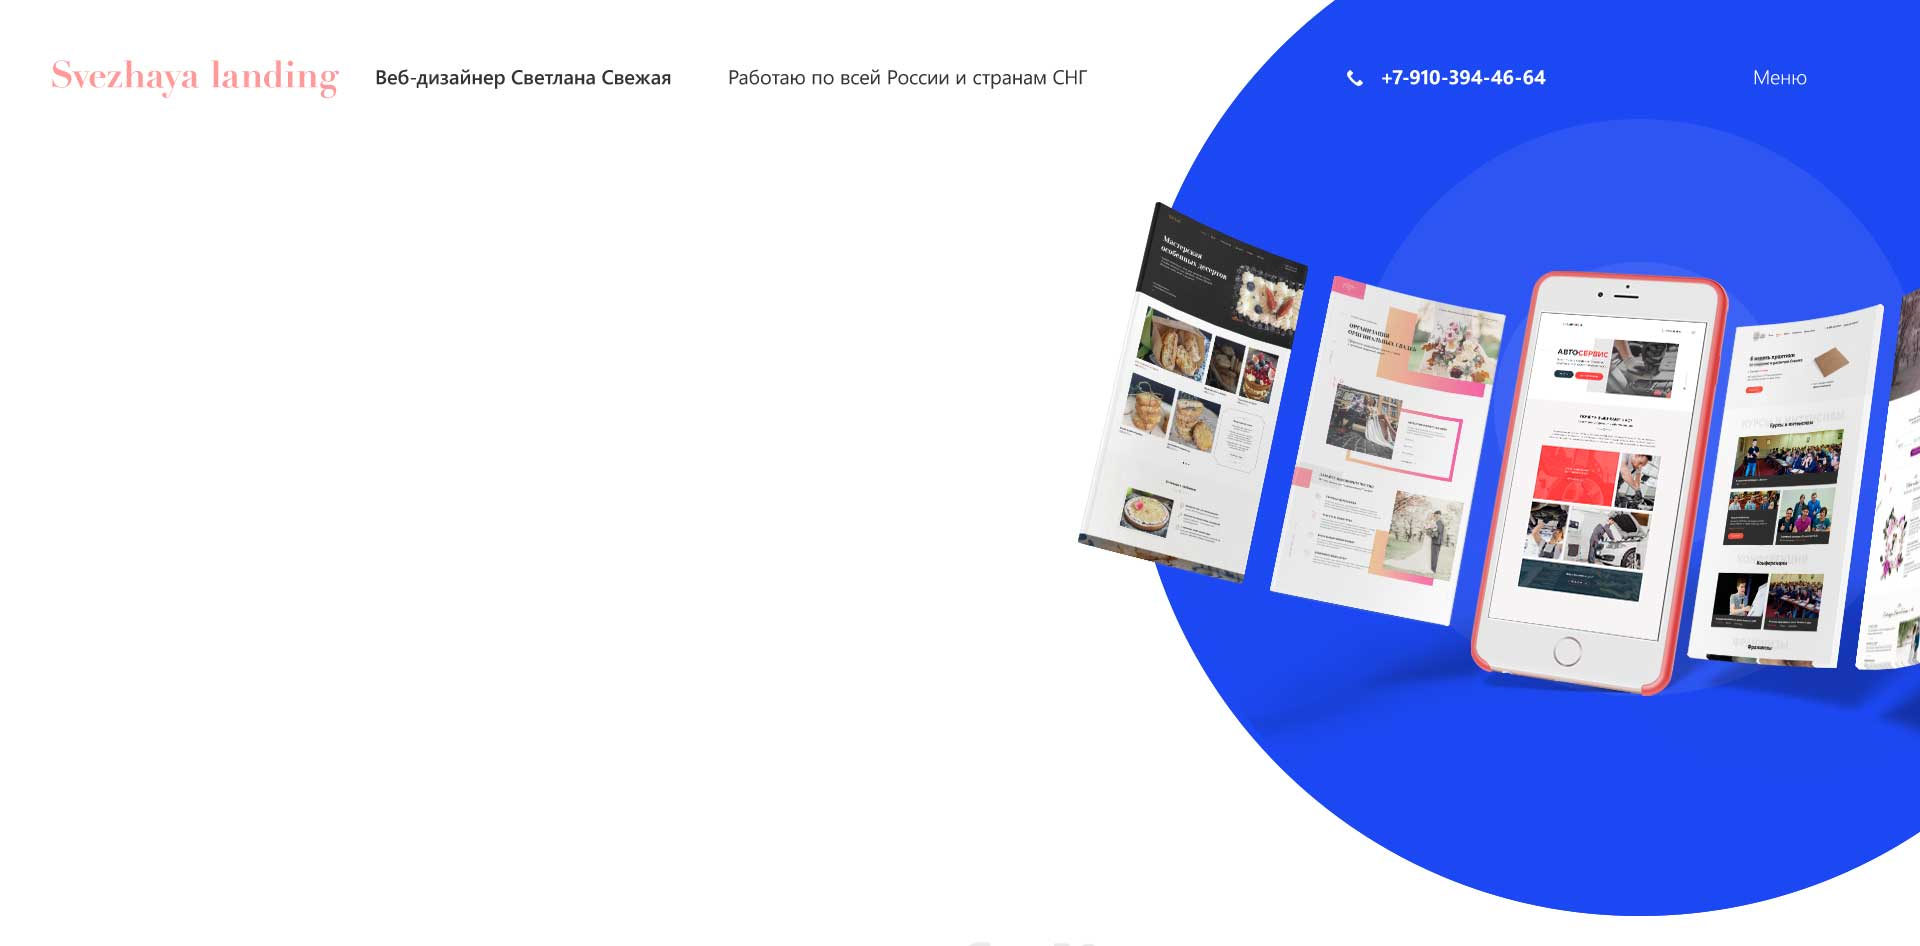
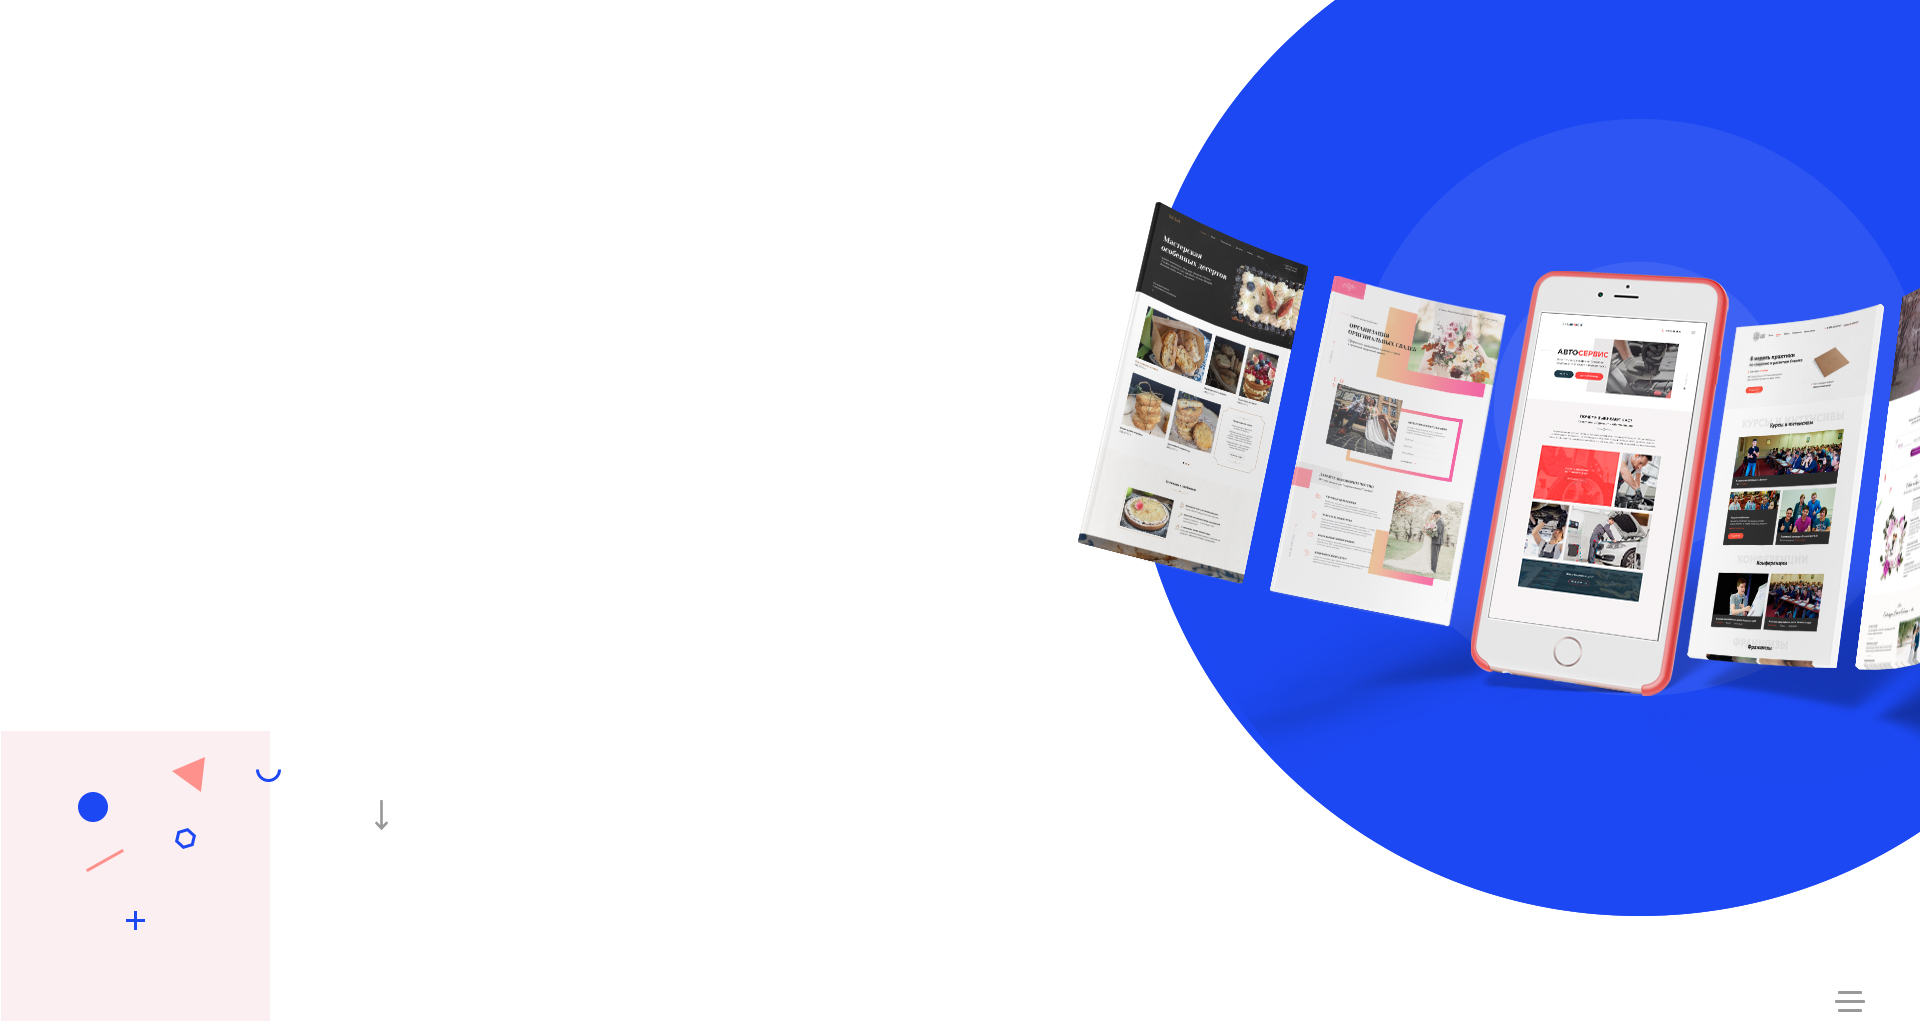
29.14

diff --git a/css/style4.css b/css/style4.css
@@ -1,2 +1,2 @@
-.dd-top-header{padding:60px 53px;text-align:center;position:relative;width:100%;background-size:cover}.dd-logo img{margin:0 auto}.dd-element_style{color:#333;font-family:'SegoeWP-Semibold';font-size:17px}.dd-tel-style{color:#333;font-size:17px;font-family:'SegoeWP-Bold'}.dd-ico{position:absolute;right:9px;top:60px;display:inline-block;cursor:pointer}.dd-dis-none{display:none}.dd-min-menu-wrap{padding:40px;position:absolute;right:10px;top:12px;border:2px solid #2D55F3;text-align:center;z-index:999;background:#fff;display:none;position:fixed}.dd-min-menu-wrap li{text-align:center}.dd-min-menu-wrap li a{font-family:'SegoeWP-Bold';text-transform:uppercase;font-size:16px;color:#333333}.dd-min-menu-wrap li a:hover{color:#1C48F3}.dd-close{position:relative}.dd-close .dd-position-close{cursor:pointer;position:absolute;right:-30px;top:-34px}.dd-contnet-header{position:relative;max-width:518px;margin:0 auto}.dd-content-header-txt{text-align:center;margin-top:100px;padding-bottom:25px}.dd-content-header-txt span:first-child{font-family:'SegoeWP-Black';font-size:23px}.dd-content-header-txt span:last-child{font-family:'SegoeWP';font-size:13px}.dd-header-button{padding-bottom:25px;text-align:center}.dd-header-button a{margin-left:-20px;display:inline-block;font-family:'SegoeWP-Semibold';font-size:20px;border:2px solid #ccc;border-radius:31px;width:235px;padding-top:17px;padding-bottom:17px;text-transform:uppercase;color:#333}.dd-header-button a:hover{border:2px solid #1C48F3;background:#1C48F3;color:#fff}.dd-header-button .active{border:2px solid #1C48F3;background:#1C48F3;color:#fff}.dd-f1-wrap{display:none}.dd-f2-wrap{display:none}@media only screen and (min-width: 480px){.dd-header-button a{margin-left:0}}@media only screen and (min-width: 768px){.dd-header-button{float:left}.dd-content-header-txt{text-align:left}.dd-content-header-txt span:first-child{font-size:35px}.dd-content-header-txt span:last-child{font-size:20px}.dd-header-button2{margin-left:36px}}@media only screen and (min-width: 1248px){.dd-contnet-header{max-width:1159px;height:545px}.dd-min-menu-wrap{border:none}.dd-top-header{background:url(../img/bigger.jpg) no-repeat top center;background-size:cover}.dd-menu-element{float:right}.dd-menu-element .dd-element_style{margin-right:65px}.dd-dis-none{display:block}.dd-padding-top{padding-top:7px}.dd-min-menu-wrap{width:350px;padding-top:200px;padding-bottom:160px}.dd-close .dd-position-close{right:-24px;top:-172px}.ml-tel{padding-left:250px}.dd-content-header-txt{margin-top:253px}.dd-content-header-txt{padding-bottom:59px;position:relative}.dd-content-header-txt span:first-child{font-size:45px}.dd-content-header-txt span:last-child{font-size:25px}.dd-all-none{display:none}.dd-ico{display:none}.dd-ico2{display:block;position:absolute;right:55px;top:60px;display:inline-block;cursor:pointer}.dd-f1-wrap{position:absolute;background:url(../img/f1.png) no-repeat top center;width:247px;height:200px;z-index:10;top:-65px;left:-140px;display:block}.dd-z-index{z-index:999}.dd-f2-wrap{position:absolute;display:block;left:0;bottom:-186px}}
+.dd-top-header{padding:60px 53px;text-align:center;position:relative;width:100%;background-size:cover}.dd-element{float:left}.dd-logo img{margin:0 auto}.dd-element_style{color:#333;font-family:'SegoeWP-Semibold';font-size:17px}.dd-tel-style{color:#333;font-size:17px;font-family:'SegoeWP-Bold'}.dd-ico{position:absolute;right:9px;top:60px;display:inline-block;cursor:pointer}.dd-dis-none{display:none}.dd-min-menu-wrap{padding:40px;position:absolute;right:10px;top:12px;border:2px solid #2D55F3;text-align:center;z-index:999;background:#fff;display:none;position:fixed}.dd-min-menu-wrap li{text-align:center}.dd-min-menu-wrap li a{font-family:'SegoeWP-Bold';text-transform:uppercase;font-size:16px;color:#333333}.dd-min-menu-wrap li a:hover{color:#1C48F3}.dd-close{position:relative}.dd-close .dd-position-close{cursor:pointer;position:absolute;right:-30px;top:-34px}.dd-contnet-header{position:relative;max-width:518px;margin:0 auto}.dd-content-header-txt{text-align:center;margin-top:100px;padding-bottom:25px}.dd-content-header-txt span:first-child{font-family:'SegoeWP-Black';font-size:23px}.dd-content-header-txt span:last-child{font-family:'SegoeWP';font-size:13px}.dd-header-button{padding-bottom:25px;text-align:center}.dd-header-button a{margin-left:-20px;display:inline-block;font-family:'SegoeWP-Semibold';font-size:20px;border:2px solid #ccc;border-radius:31px;width:235px;padding-top:17px;padding-bottom:17px;text-transform:uppercase;color:#333}.dd-header-button a:hover{border:2px solid #1C48F3;background:#1C48F3;color:#fff}.dd-header-button .active{border:2px solid #1C48F3;background:#1C48F3;color:#fff}.dd-f1-wrap{display:none}.dd-f2-wrap{display:none}@media only screen and (min-width: 480px){.dd-header-button a{margin-left:0}}@media only screen and (min-width: 768px){.dd-header-button{float:left}.dd-content-header-txt{text-align:left}.dd-content-header-txt span:first-child{font-size:35px}.dd-content-header-txt span:last-child{font-size:20px}.dd-header-button2{margin-left:36px}}@media only screen and (min-width: 1248px){.dd-element-padding{padding-left:60px}.dd-contnet-header{max-width:1159px;height:545px}.dd-min-menu-wrap{border:none}.dd-top-header{background:url(../img/bigger.jpg) no-repeat top center;background-size:cover}.dd-menu-element{float:right}.dd-menu-element .dd-element_style{margin-right:65px;color:#fff}.dd-dis-none{display:block}.dd-padding-top{padding-top:7px}.dd-min-menu-wrap{width:350px;padding-top:200px;padding-bottom:160px}.dd-close .dd-position-close{right:-24px;top:-172px}.ml-tel{margin-right:26px}.dd-content-header-txt{margin-top:253px}.dd-content-header-txt{padding-bottom:59px;position:relative}.dd-content-header-txt span:first-child{font-size:45px}.dd-content-header-txt span:last-child{font-size:25px}.dd-all-none{display:none}.dd-ico{display:none}.dd-ico2{display:block;position:absolute;right:55px;top:60px;display:inline-block;cursor:pointer}.dd-f1-wrap{position:absolute;background:url(../img/f1.png) no-repeat top center;width:247px;height:200px;z-index:10;top:-65px;left:-140px;display:block}.dd-z-index{z-index:999}.dd-f2-wrap{position:absolute;display:block;left:0;bottom:-186px}.dd-tel-style{color:#fff}.dd-tel-style span{display:inline-block;background:url(../img/mini.png) no-repeat left center;padding-left:18px}}
 /*# sourceMappingURL=style4.css.map */

diff --git a/css/style4.scss b/css/style4.scss
@@ -8,7 +8,9 @@
 	position: relative;
 	width: 100%;
 	background-size: cover; 
-	// outline:1px solid red;
+}
+.dd-element{
+	float:left;
 }
 .dd-logo{
 	img{
@@ -71,7 +73,6 @@
 
 //Контент шапки
 .dd-contnet-header{
-	// max-width:1159px;
 	position:relative;
 	max-width:518px;
 	margin: 0 auto;
@@ -127,16 +128,6 @@
 
 
 
-
-
-
-
-
-
-
-
-
-
 @media only screen and (min-width : 320px) {
 }
 
@@ -171,6 +162,9 @@
 }
 
 @media only screen and (min-width : 1248px) {
+	.dd-element-padding{
+		padding-left: 60px;
+	}
 	.dd-contnet-header{
 		max-width:1159px;
 		height: 545px;
@@ -186,6 +180,7 @@
 		float: right;
 		.dd-element_style{
 			margin-right: 65px;
+			color:#fff;
 		}
 	}
 	.dd-dis-none{
@@ -206,11 +201,11 @@
 		}
 	}
 	.ml-tel{
-		padding-left: 250px;
+		// padding-left: 250px;
+		margin-right: 26px;
 	}
 	.dd-content-header-txt{
 		margin-top: 253px;
-		// outline: 1px solid red;
 	}
 	.dd-content-header-txt{
 		padding-bottom: 59px;
@@ -255,6 +250,14 @@
 		display:block;
 		left:0;
 		bottom:-186px;
+	}
+	.dd-tel-style{
+		color:#fff;
+		span{
+			display: inline-block;
+			background: url(../img/mini.png) no-repeat left center;
+			padding-left: 18px;
+		}
 	}
 }
 

diff --git a/includes/header_top.php b/includes/header_top.php
@@ -1,20 +1,21 @@
 <section class="dd-top-header">
-	<div class="dd-all-none">
-		<div class="dd-element dd-logo">
+	
+		<!-- <div class="dd-element dd-logo">
 			<img class="img-responsive" src="img/logo.png" alt="">
-		</div>
-		<div class="dd-element dd-element_style dd-element-padding-2 dd-padding-top">
+		</div> -->
+		<div class="dd-element dd-element_style dd-element-padding-2">
 			<span>Веб-дизайнер Светлана Свежая</span>
 		</div>
-		<div class="dd-element dd-element_style dd-element-padding dd-padding-top">
+		<div class="dd-element dd-element_style dd-element-padding">
 			<span>Работаю по всей России и странам СНГ</span>
 		</div>
-		<div class="dd-element dd-tel-style dd-padding-top ml-tel">
+		
+
+	<div class="dd-menu-element">
+		<div class="dd-element dd-tel-style ml-tel">
 			<span>+7-910-394-46-64</span>
 		</div>
-	</div>
-	<div class="dd-menu-element dd-padding-top">
-		<div class="dd-element dd-element_style dd-dis-none dd-all-none">
+		<div class="dd-element dd-element_style dd-dis-none">
 			<span>Меню</span>
 		</div>
 		<div class="dd-ico">
@@ -55,9 +56,6 @@
 		<div class="dd-header-button dd-header-button2">
 			<a href="#">Заказать звонок</a>
 		</div>
-	</div>
-	<div class="dd-f2-wrap">
-		<img src="img/f2.png" alt="">
 	</div>
 </section>
 
